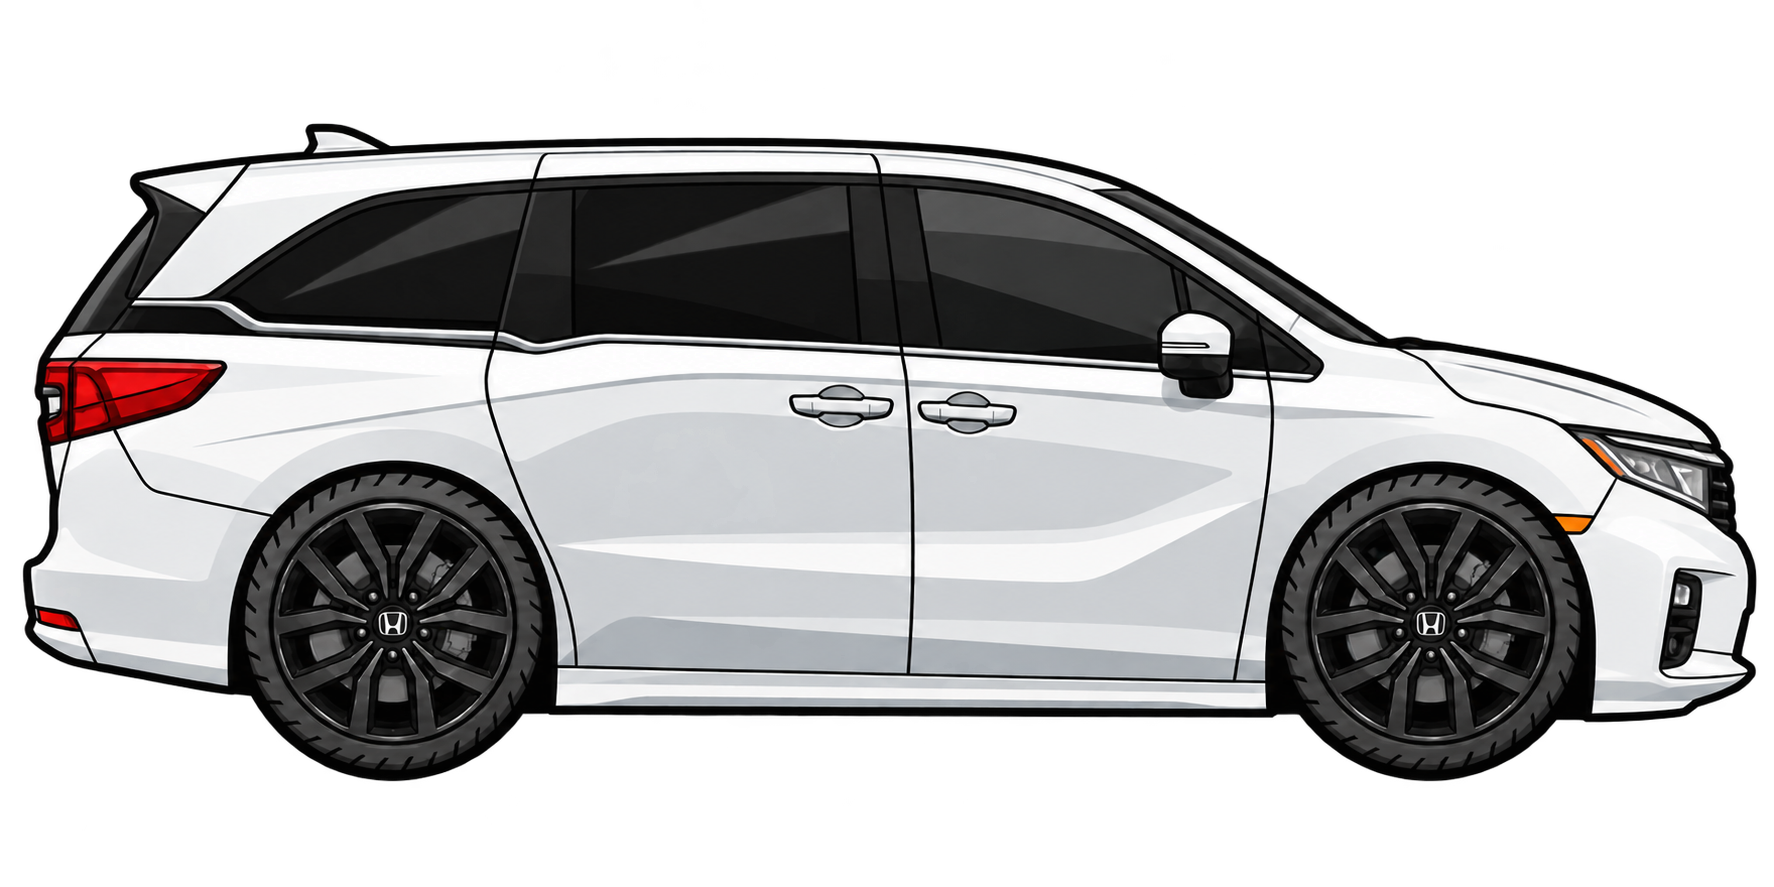
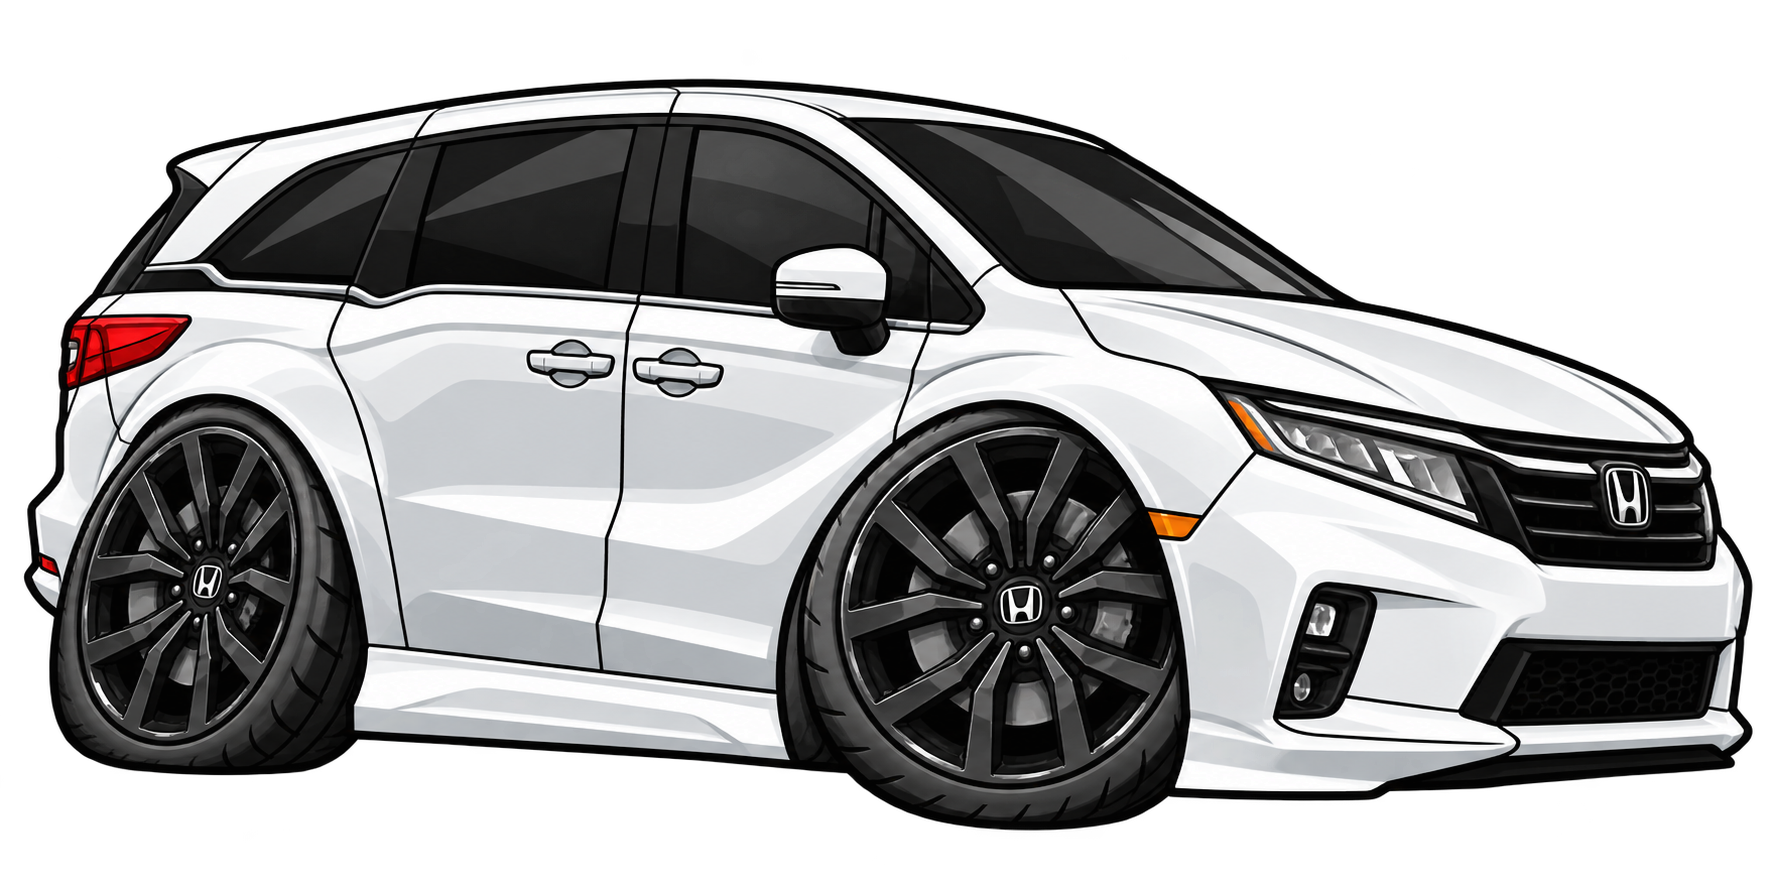
Restyle Odyssey startup artwork with oversized Sport wheels

diff --git a/openpilot/system/ui/lib/odyssey_scene.py b/openpilot/system/ui/lib/odyssey_scene.py
@@ -3,7 +3,6 @@ import math
 import pyray as rl
 
 
-
 # Both stages need the same GLSL version; raylib's device default vertex shader uses GLES 2.
 WHEEL_VERTEX_SHADER = """
 in vec3 vertexPosition;
@@ -20,28 +19,38 @@ void main() {
 }
 """
 
-# Wheel centers and the 120-pixel rim radius refer to the original 1774x887 illustration.
-# Rotate only the rims, preserving the tire and body contours.
+# Fit each rim's ellipse in the 1774x887 artwork; leave the tires and body intact.
 WHEEL_SHADER = """
 in vec2 fragTexCoord;
 in vec4 fragColor;
 uniform sampler2D texture0;
-uniform float rotation;
+uniform float distance;
 out vec4 finalColor;
 
 void main() {
   vec2 size = vec2(textureSize(texture0, 0));
   vec2 pixel = fragTexCoord * size;
-  vec2 centers[2] = vec2[2](vec2(392.0, 623.0), vec2(1431.0, 623.0));
-  float c = cos(rotation);
-  float s = sin(rotation);
+  vec4 color = texture(texture0, fragTexCoord);
+  vec2 centers[2] = vec2[2](vec2(207.0, 580.0), vec2(1020.0, 606.0));
+  vec2 radii[2] = vec2[2](vec2(98.0, 138.0), vec2(149.0, 159.0));
+  float tilts[2] = float[2](0.15, 0.10);
+  float tireRadii[2] = float[2](188.0, 224.0);
   for (int i = 0; i < 2; i++) {
-    vec2 offset = pixel - centers[i];
-    if (length(offset) < 120.0) {
-      pixel = centers[i] + mat2(c, -s, s, c) * offset;
+    float ct = cos(tilts[i]);
+    float st = sin(tilts[i]);
+    mat2 basis = mat2(ct, st, -st, ct);
+    vec2 offset = (transpose(basis) * (pixel - centers[i])) / radii[i];
+    if (length(offset) < 1.0) {
+      float angle = distance / tireRadii[i];
+      float c = cos(angle);
+      float s = sin(angle);
+      pixel = centers[i] + basis * ((mat2(c, -s, s, c) * offset) * radii[i]);
+      // Feather into the stationary rim lip where the drawn fenders obscure its edge.
+      color = mix(color, texture(texture0, pixel / size), 1.0 - smoothstep(0.85, 1.0, length(offset)));
+      break;
     }
   }
-  finalColor = texture(texture0, pixel / size) * fragColor;
+  finalColor = color * fragColor;
 }
 """
 
@@ -52,8 +61,8 @@ class OdysseyScene:
     rl.gen_texture_mipmaps(self._texture)
     rl.set_texture_filter(self._texture, rl.TextureFilter.TEXTURE_FILTER_TRILINEAR)
     self._shader = rl.load_shader_from_memory(gl_version + WHEEL_VERTEX_SHADER, gl_version + WHEEL_SHADER)
-    self._rotation_loc = rl.get_shader_location(self._shader, "rotation")
-    self._rotation = rl.ffi.new("float[1]")
+    self._distance_loc = rl.get_shader_location(self._shader, "distance")
+    self._distance = rl.ffi.new("float[1]")
 
   @property
   def shader_ready(self) -> bool:
@@ -61,24 +70,26 @@ class OdysseyScene:
 
   def draw(self, rect: rl.Rectangle, elapsed: float):
     scale = rect.width / self._texture.width
-    # Scene coordinates follow the source artwork; tire contact is at y=780.
+    # The road follows the two contact patches in the three-quarter perspective.
     distance = elapsed * 420.0
-    road_y = rect.y + 776.0 * scale
-    road = rl.Rectangle(rect.x, road_y, rect.width, 100.0 * scale)
-    rl.draw_rectangle_rounded(road, 0.5, 12, (16, 19, 24, 255))
+    def road_point(x, depth):
+      return rl.Vector2(rect.x + x * scale, rect.y + (745.0 + 0.055 * x + depth) * scale)
 
-    rl.begin_scissor_mode(int(road.x), int(road.y), math.ceil(road.width), math.ceil(road.height))
+    end = float(self._texture.width)
+    rl.draw_triangle(road_point(0.0, 0.0), road_point(0.0, 44.0), road_point(end, 0.0), (16, 19, 24, 255))
+    rl.draw_triangle(road_point(end, 0.0), road_point(0.0, 44.0), road_point(end, 44.0), (16, 19, 24, 255))
+    rl.begin_scissor_mode(int(rect.x), int(rect.y), math.ceil(rect.width), math.ceil(rect.height))
     for i in range(math.ceil(self._texture.width / 260.0) + 1):
-      x = rect.x + (i * 260.0 - distance % 260.0) * scale
-      rl.draw_rectangle_rec(rl.Rectangle(x, road_y + 60.0 * scale, 130.0 * scale, 7.0 * scale), (118, 124, 134, 255))
+      x = i * 260.0 - distance % 260.0
+      rl.draw_line_ex(road_point(x, 33.0), road_point(x + 130.0, 33.0), 7.0 * scale, (118, 124, 134, 255))
     rl.end_scissor_mode()
 
     bob = math.sin(elapsed * math.tau) * 1.5 * scale
     car = rl.Rectangle(rect.x, rect.y + bob, rect.width, self._texture.height * scale)
     source = rl.Rectangle(0, 0, self._texture.width, self._texture.height)
-    # A right-facing vehicle rolls clockwise at the same speed as the passing road.
-    self._rotation[0] = (distance / 160.0) % math.tau
-    rl.set_shader_value(self._shader, self._rotation_loc, self._rotation, rl.ShaderUniformDataType.SHADER_UNIFORM_FLOAT)
+    # Each right-facing wheel rolls clockwise at the passing road's speed.
+    self._distance[0] = distance % (math.tau * 188.0 * 224.0)
+    rl.set_shader_value(self._shader, self._distance_loc, self._distance, rl.ShaderUniformDataType.SHADER_UNIFORM_FLOAT)
     rl.begin_shader_mode(self._shader)
     rl.draw_texture_pro(self._texture, source, car, rl.Vector2(0, 0), 0.0, rl.WHITE)
     rl.end_shader_mode()
